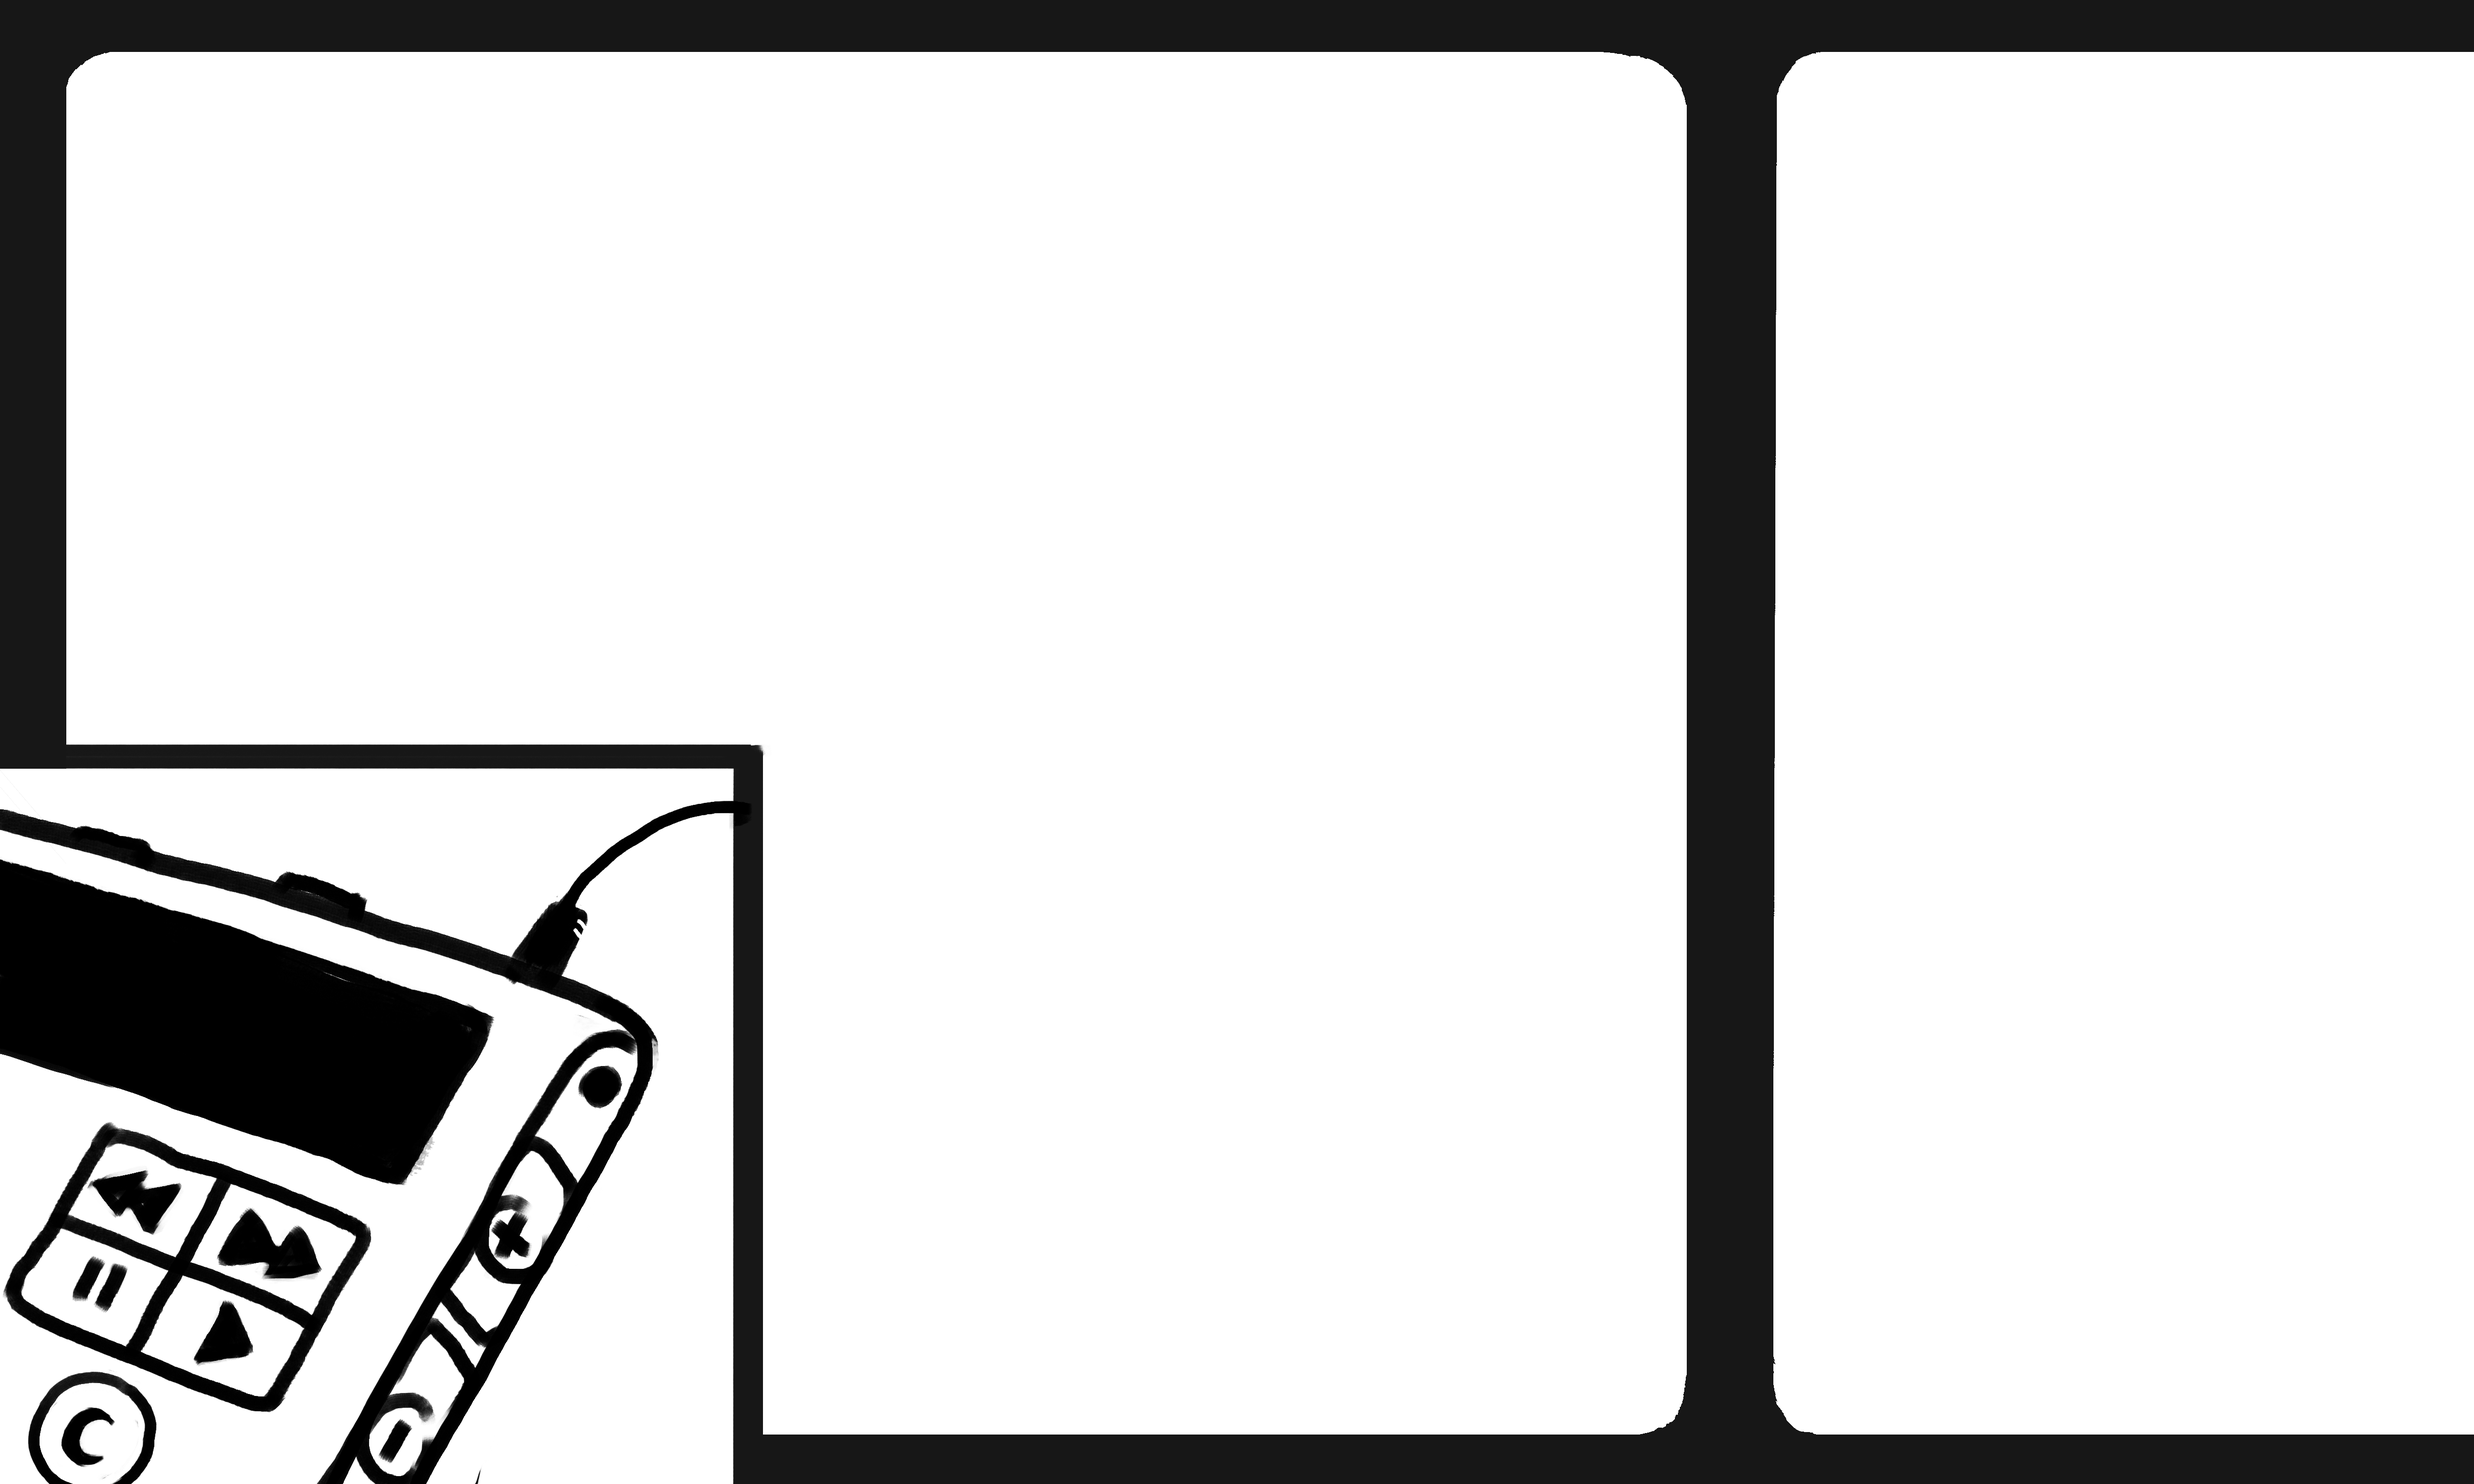
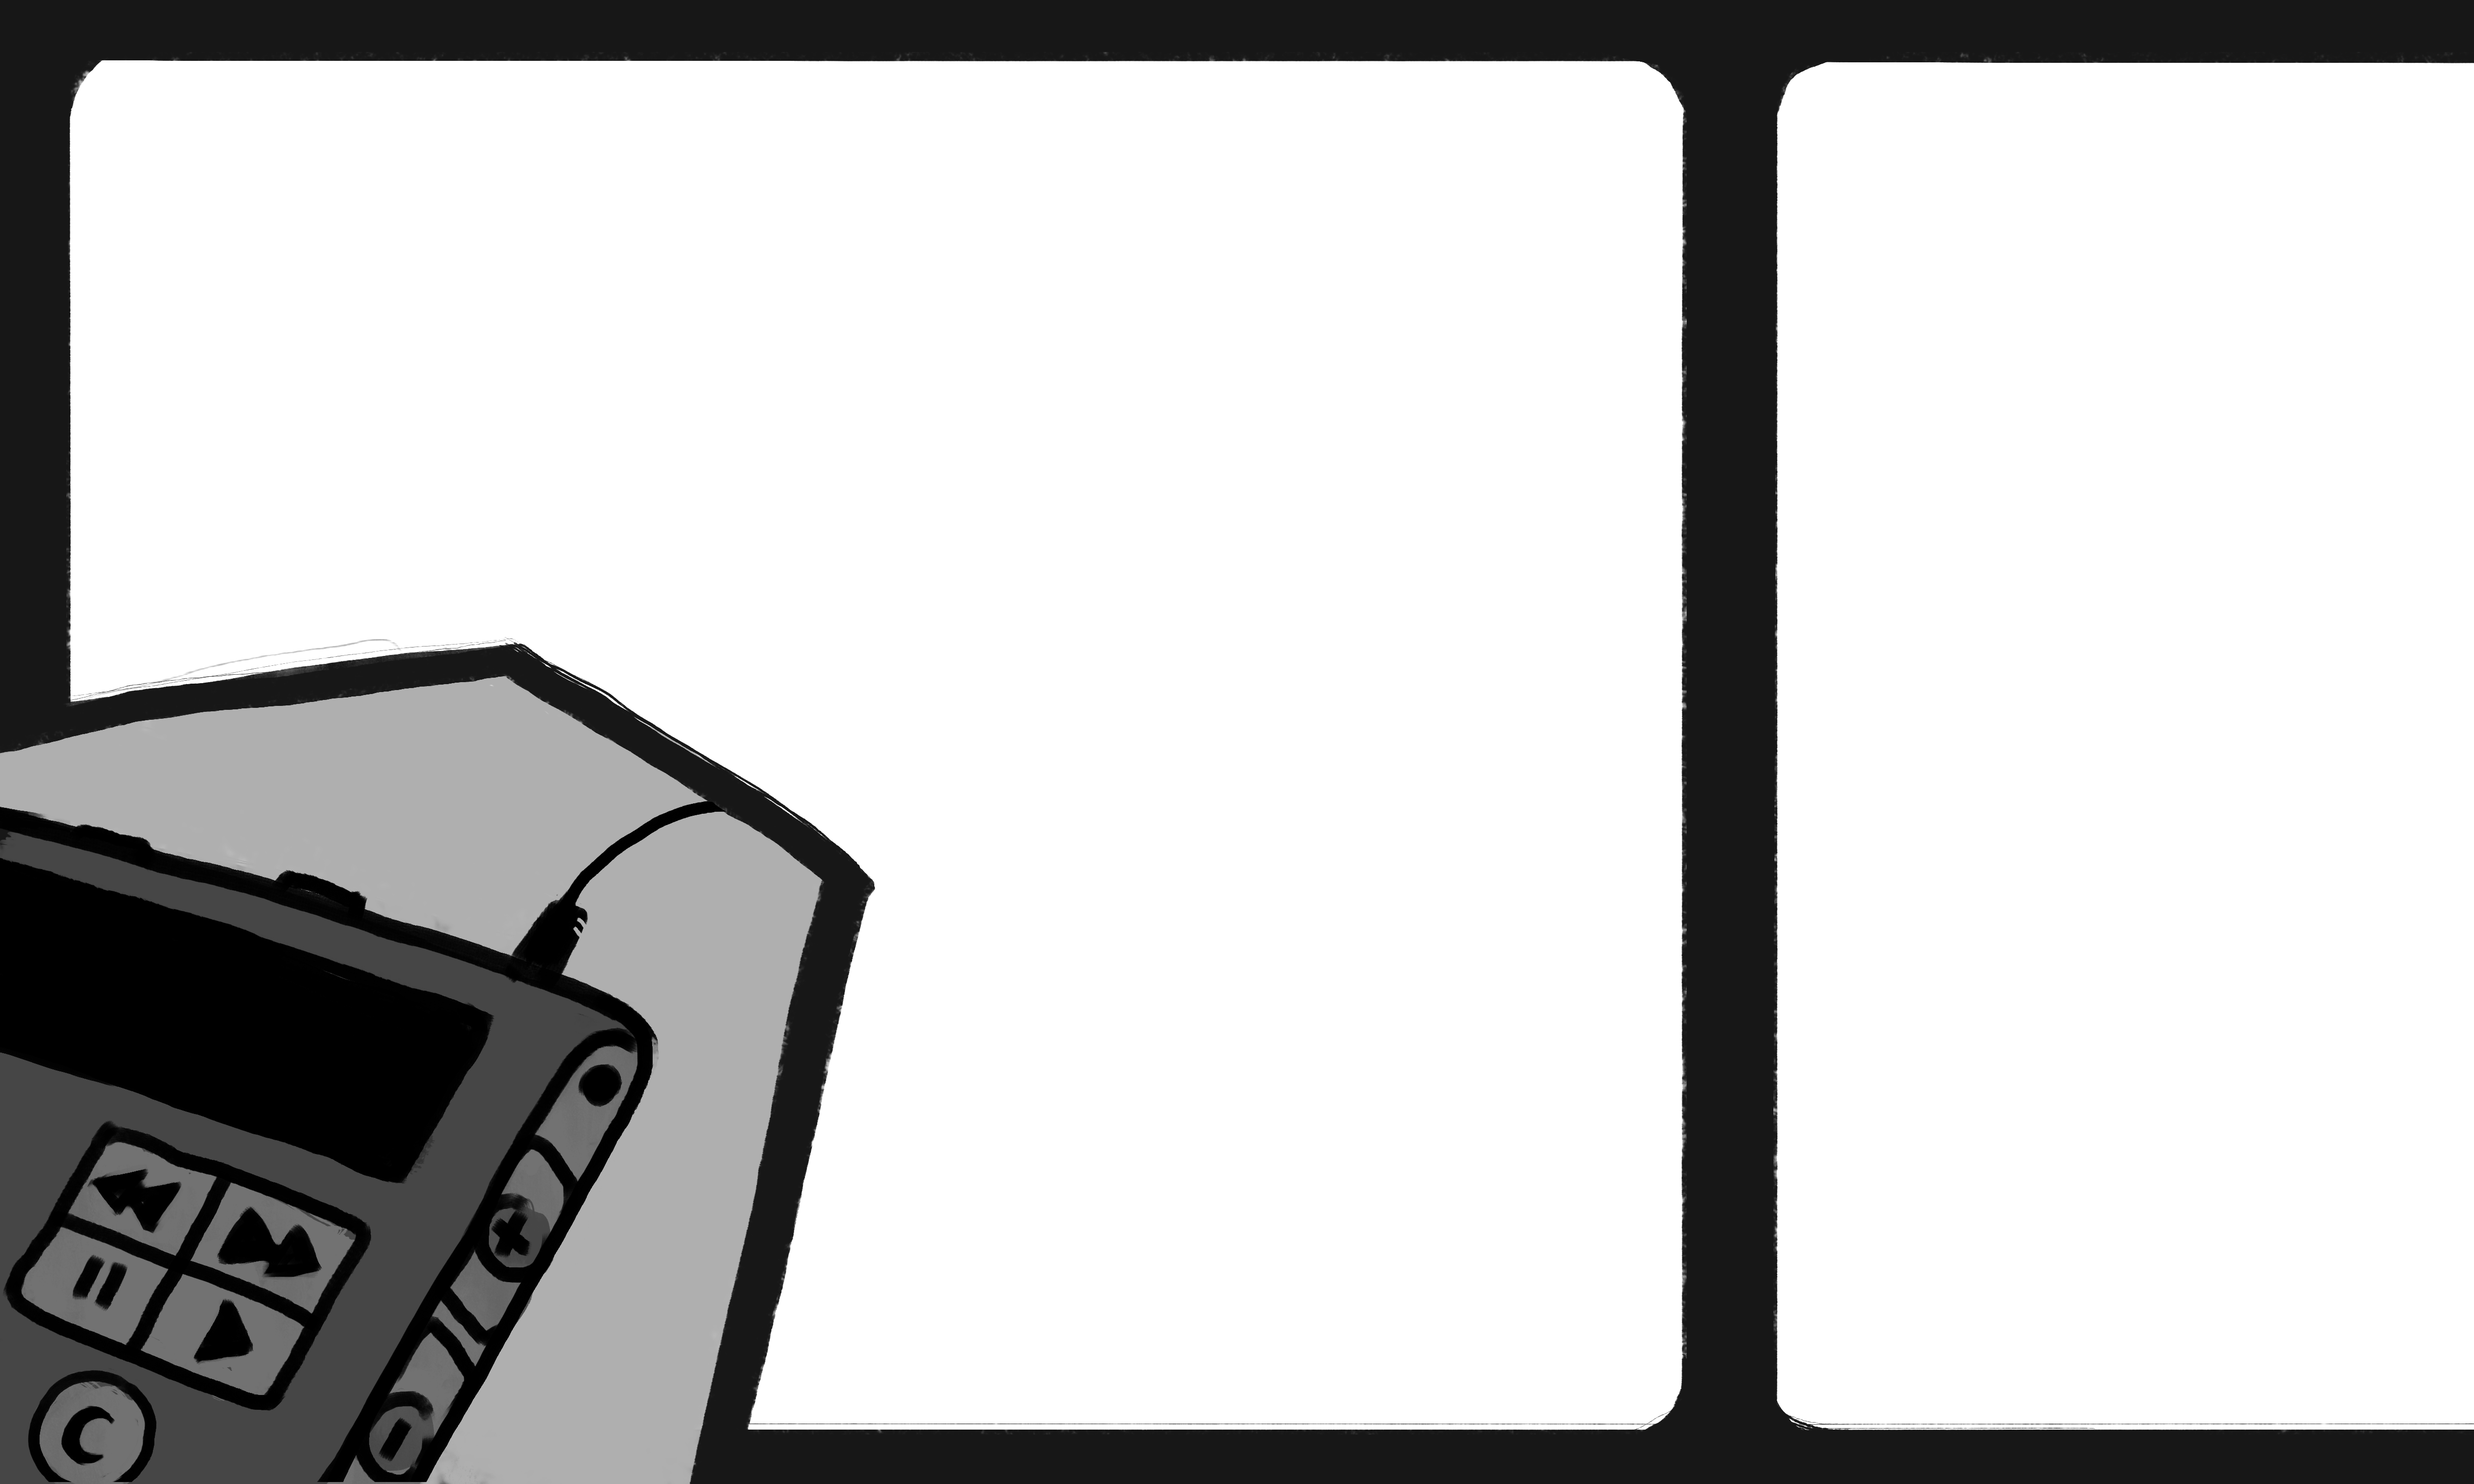
fixed audioContext bug in chrome. safari is acting bizarre. added a ticket-punching intro.

diff --git a/sketch.js b/sketch.js
@@ -14,12 +14,19 @@ var dayColor, nightColor, bgColor, bgLerp, bgFFTNoise, day;
 
 var mouse, buttons, backbtn, fwdbtn, pausebtn, playbtn, nightbtn, speedupbtn, slowdownbtn, buttonOver;
 
+var ticketPunchAlpha, ticket, ticketPunched, ticketText;
+
 function preload(){
   frame = loadImage('img/frame.png');
+  ticket = loadImage('img/ticket.png');
+  ticketPunched = loadImage('img/ticket-punched.png');
   font = loadFont('fontB.ttf');
 }
 
 function setup() {
+  var context = getAudioContext();
+  context.suspend();
+
   c = createCanvas(1000, 600);
   canvParent = document.getElementById("trainWindow");
   c.parent(canvParent);
@@ -28,9 +35,9 @@ function setup() {
   manualSwitch = false;
 
   allSongs = [];
-  allSongs[0] = new p5.SoundFile("songs/0.mp3", songLoaded, loadFailed, songLoading);
+  allSongs[0] = new p5.SoundFile("songs/0.mp3");
   allSongs[0].setLoop(false);
-  allSongs[0].playMode('restart');
+  // allSongs[0].playMode('restart');
   fft = new p5.FFT();
   fft2 = new p5.FFT();
 
@@ -91,6 +98,9 @@ function setup() {
     trackSecFixed = "0" + trackSec.slice(0, 1);
   }
 
+  ticketPunchAlpha = 255;
+  ticketText = "*kshht* please punch your ticket before we embark";
+
 }
 
 function draw() {
@@ -141,6 +151,8 @@ function draw() {
   mouse = new p5.Vector(mouseX, mouseY);
   // console.log(mouse)
 
+  audioContextCheck();
+
 }
 
 function fourierClouds(){
@@ -185,7 +197,7 @@ function miniDiscText(){
   rotate(0.3);
   shearX(-0.25);
   textSize(24);
-  fill(255)
+  fill(200)
   stroke(0);
     textAlign(LEFT);
     text(displayText, 0, 0);
@@ -345,6 +357,17 @@ function mousePressed(){
       buttons[i].do();
     }
   }
+  if (getAudioContext().state !== "running"){
+    userStartAudio();
+    ticket = ticketPunched;
+    ticketText = "thank you, and safe travels *kshht*";
+    if (allSongs[0].isLoaded()){
+      songLoaded();
+    } else {
+      allSongs[0] = new p5.SoundFile("songs/0.mp3", songLoaded);
+    }
+
+  }
 
 }
 
@@ -364,6 +387,7 @@ function keyPressed(){
     } else {
       day = true;
     }
+    // console.log(getAudioContext().state)
   }
 }
 
@@ -427,7 +451,7 @@ function songLoaded(){
   }
 
   allSongs[nextSong].setLoop(false);
-  allSongs[nextSong].playMode('restart');
+  // allSongs[nextSong].playMode('restart');
   allSongs[nextSong].play();
   currentSong = nextSong;
   manualSwitch = false;
@@ -534,5 +558,39 @@ var MiniDiscButton = function(x, y, r, id){
     } else {
 
     }
+  }
+}
+
+function audioContextCheck(){
+
+  if (getAudioContext().state == "running"){
+    if (ticketPunchAlpha > 0){
+      ticketPunchAlpha -= 2;
+    }
+  }
+
+  if (ticketPunchAlpha > 0){
+    push();
+      noStroke();
+      fill(0, 0, 0, ticketPunchAlpha);
+      rect(0, 0, width, height);
+    pop();
+    push();
+      noStroke();
+      textAlign(CENTER);
+      textSize(28);
+      fill(255, 255, 255, ticketPunchAlpha);
+      text(width/2, 2*(height/3));
+      text(ticketText, width/2, 2*(height/3)+30);
+    pop();
+
+
+    push();
+      angleMode(RADIANS);
+      translate(width/2, height/2 + (255-ticketPunchAlpha)*2)
+      rotate(1-(ticketPunchAlpha/255));
+      imageMode(CENTER);
+      image(ticket, 0, 0);
+    pop();
   }
 }

diff --git a/style.css b/style.css
@@ -6,8 +6,8 @@ body {
   .container {
     display: block;
     position: absolute;
-    width: 100vw;
-    height: 100vh;
+    width: 100%;
+    height: 100%;
     top: 0;
     left: 0;
   }
